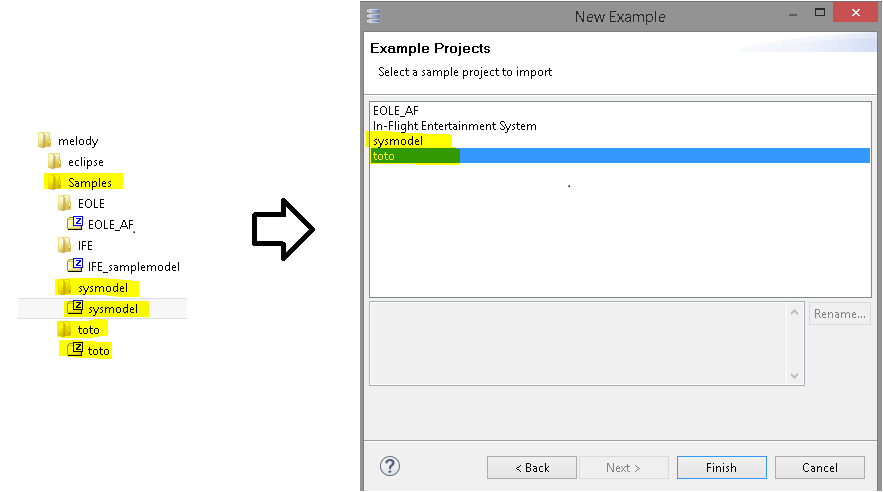
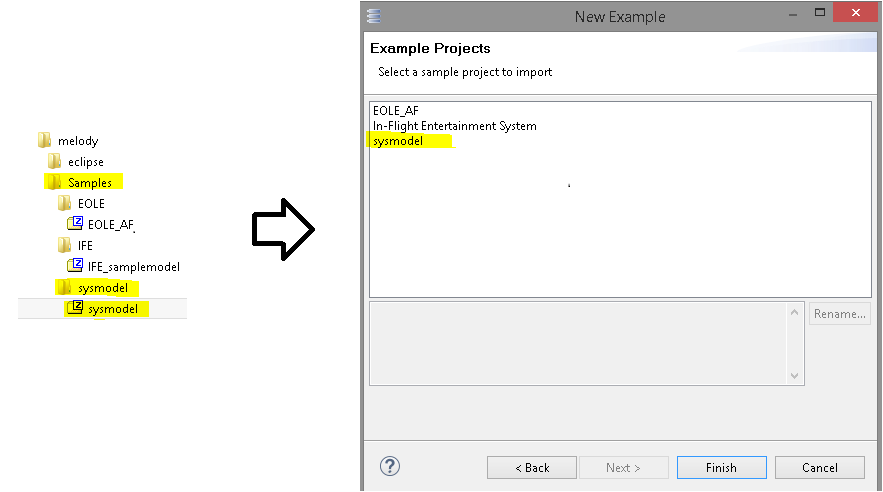
[2140] Sample project import doesn't work on Linux platform
Samples folder doesn't exist, sample folder is in lowercase, which may
not work on Linux platform.
Moreover, sample zip file is located directly under sample folder which
was not covered by import wizard

Bug: 2140

Changed region(s): [[0.3975, 0.2744, 1.0, 0.3354], [0.0612, 0.6402, 0.1529, 0.7317]]

diff --git a/doc/plugins/org.polarsys.capella.ui.doc/html/03. First steps with Capella/3.8. How to import Capella Project Example.html b/doc/plugins/org.polarsys.capella.ui.doc/html/03. First steps with Capella/3.8. How to import Capella Project Example.html
@@ -27,11 +27,10 @@
 		</p>
 		<h1 id="How_to_add_an_existing_Capella_project_as_an_example.3F">How to add an existing Capella project as an example?</h1>
 		<ol>
-			<li>The sample project must be in the form of: 
-				<b>toto/toto.zip</b>
-			</li>
-			<li>The sample project is placed in 
-				<b>CAPELLA_INSTALLATION_PATH/Samples/toto/toto.zip</b>
+			<li>The sample project must be a zip containing the project folder</li>
+			<li>The sample project shall be placed in sample folder like 
+				<b>CAPELLA_INSTALLATION_PATH/samples/model.zip</b> or located under a sub folder like 
+				<b>CAPELLA_INSTALLATION_PATH/samples/model/model.zip</b>
 			</li>
 			<li>The import sample wizard dialog will propose a list of available examples including the newly added ones.</li>
 		</ol>

diff --git a/core/plugins/org.polarsys.capella.core.platform.sirius.ui.project/src/org/polarsys/capella/core/platform/sirius/ui/project/sample/SampleModelWizard.java b/core/plugins/org.polarsys.capella.core.platform.sirius.ui.project/src/org/polarsys/capella/core/platform/sirius/ui/project/sample/SampleModelWizard.java
@@ -12,6 +12,7 @@ package org.polarsys.capella.core.platform.sirius.ui.project.sample;
 
 import java.io.BufferedInputStream;
 import java.io.File;
+import java.io.FilenameFilter;
 import java.io.IOException;
 import java.net.URL;
 import java.util.ArrayList;
@@ -116,7 +117,7 @@ public class SampleModelWizard extends AbstractExampleInstallerWizard {
     Location location = Platform.getInstallLocation();
     URL url = location.getURL();
     URI uri = URI.createURI(url.toString());
-    URI sampleLocation = uri.trimSegments(2).appendSegment("Samples");
+    URI sampleLocation = uri.trimSegments(2).appendSegment("samples");
     result.add(sampleLocation);
     return result;
   }
@@ -153,14 +154,16 @@ public class SampleModelWizard extends AbstractExampleInstallerWizard {
 
   protected Collection<File> getOwnedZips(URI sampleLocation) {
     Collection<File> zips = new ArrayList<File>();
-
-    File file = new File(sampleLocation.toFileString());
-    if (file.exists() && file.isDirectory()) {
-      for (File fil : file.listFiles()) {
-        if (fil.isDirectory()) {
-          for (File zip : fil.listFiles(new ZipFilenameFilter())) {
+    FilenameFilter zipFilter = new ZipFilenameFilter();
+    File folder = new File(sampleLocation.toFileString());
+    if (folder.exists() && folder.isDirectory()) {
+      for (File file : folder.listFiles()) {
+        if (file.isDirectory()) {
+          for (File zip : file.listFiles(zipFilter)) {
             zips.add(zip);
           }
+        } else if (zipFilter.accept(file.getParentFile(), file.getName())) {
+          zips.add(file);
         }
       }
     }
